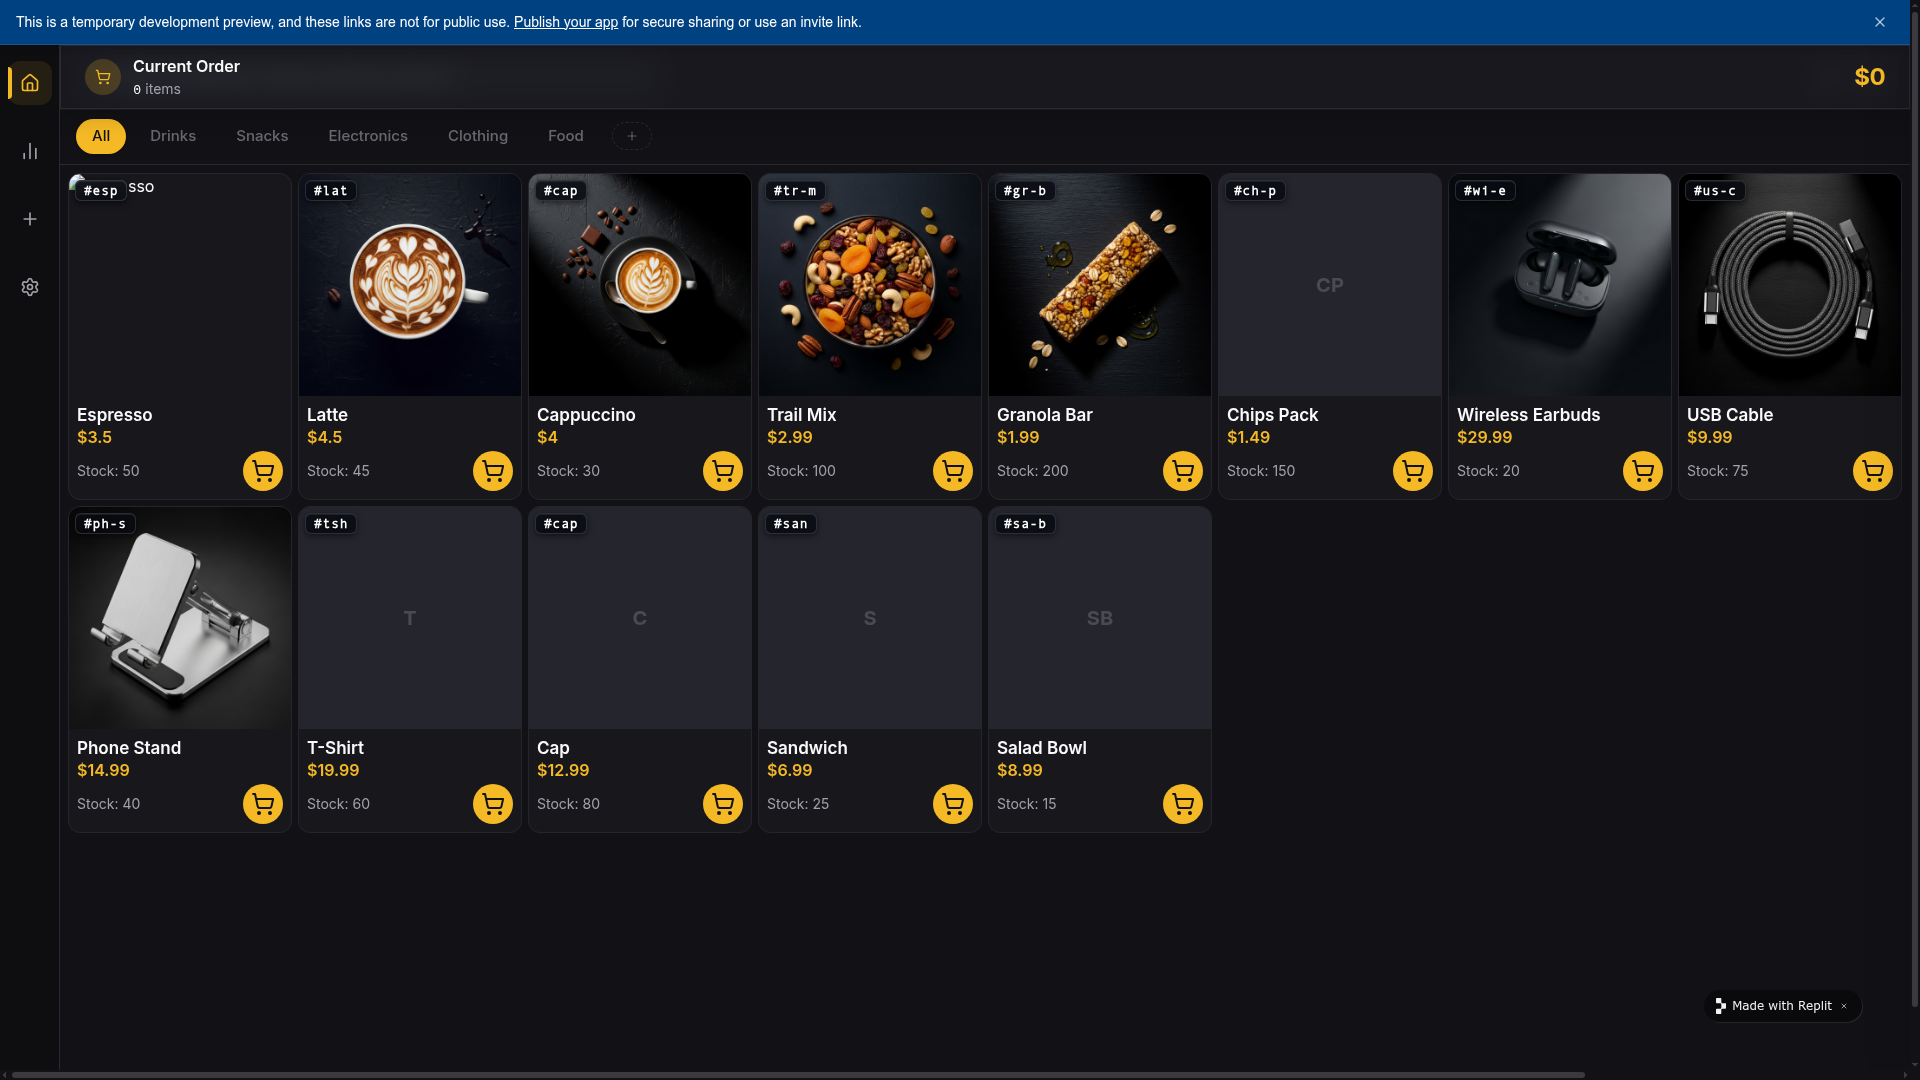
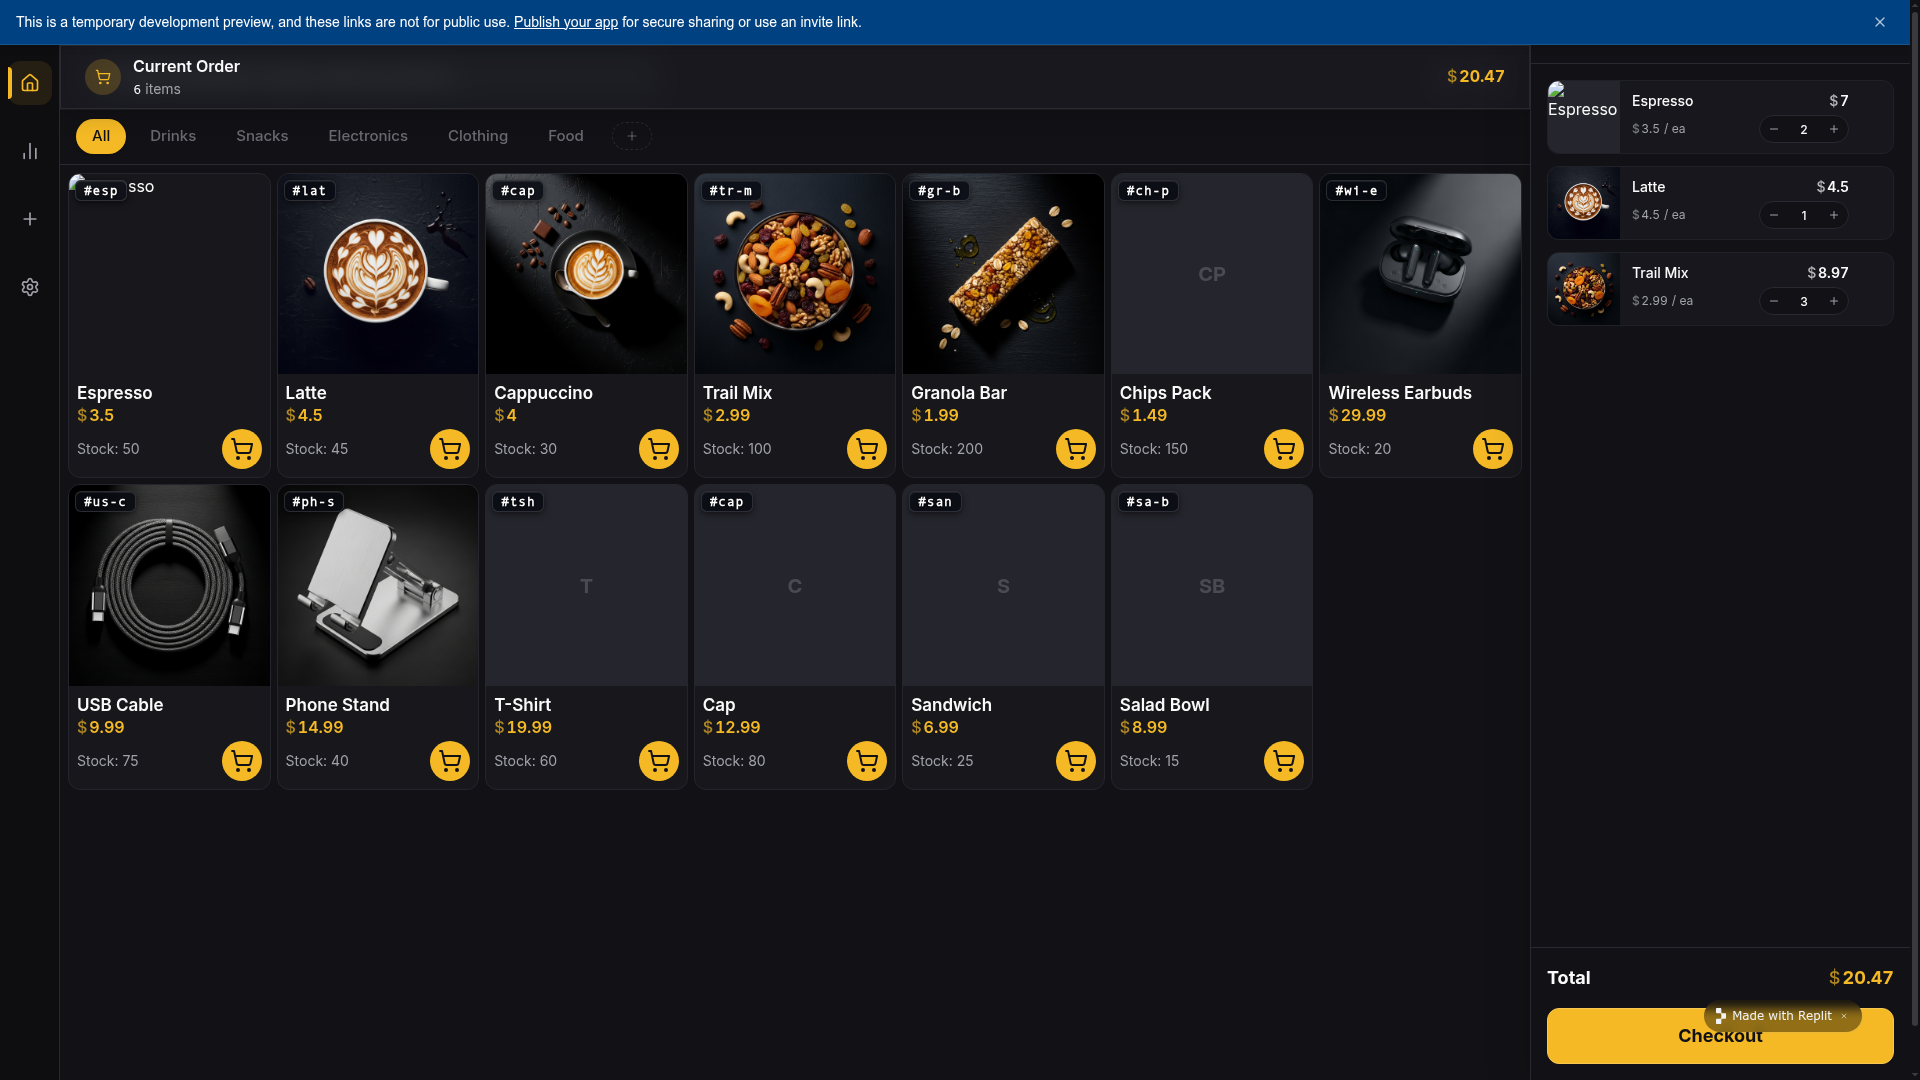
Update demo option to demo mode and refine its behavior
Renames "Demo Data" to "Demo Mode", and implements sandboxed behavior where actions are performed but not saved, with a reset on exit, stable analytics, and pre-filled initial state.

Replit-Commit-Author: Agent
Replit-Commit-Session-Id: fb33fa46-3691-49df-94f1-1d14acff730e
Replit-Commit-Checkpoint-Type: full_checkpoint
Replit-Commit-Event-Id: 6d282775-f128-4e77-b8e4-7cd21e2f7f4f
Replit-Commit-Screenshot-Url: https://storage.googleapis.com/screenshot-production-us-central1/b6bdb686-453c-457e-84ba-df9c58a15c67/fb33fa46-3691-49df-94f1-1d14acff730e/TIHnvqS
Replit-Helium-Checkpoint-Created: true

diff --git a/artifacts/pos-system/src/lib/store.tsx b/artifacts/pos-system/src/lib/store.tsx
@@ -22,9 +22,9 @@ export type Product = {
 export const INITIAL_CATEGORIES: Category[] = ["All", "Drinks", "Snacks", "Electronics", "Clothing", "Food"];
 
 // Demo products are an additive overlay shown only when Settings → Data &
-// Safety → Demo Data is ON. They share the global `products` list with any
+// Safety → Demo Mode is ON. They share the global `products` list with any
 // user-added products so existing call sites (POS, AddProduct) keep working,
-// but they are stored in their own bucket so toggling Demo Data off cleanly
+// but they are stored in their own bucket so toggling Demo Mode off cleanly
 // reveals just the user's real catalogue.
 export const DEMO_PRODUCTS: Product[] = [
   { id: "demo-1",  name: "Espresso",        price: 3.50,  category: "Drinks",      stock: 50,  image: "/images/espresso.png" },
@@ -45,6 +45,18 @@ export const DEMO_PRODUCTS: Product[] = [
 const DEMO_ID_PREFIX = "demo-";
 const isDemoId = (id: string) => id.startsWith(DEMO_ID_PREFIX);
 
+/**
+ * Pre-filled cart seed used the moment Demo Mode activates — gives the user
+ * something tangible to look at and test against without manually adding
+ * items first. The shape is `{ productId, quantity }` only; the consumer
+ * (POS) materializes full `CartItem`s by looking up `DEMO_PRODUCTS`.
+ */
+export const DEMO_CART_SEED: Array<{ productId: string; quantity: number }> = [
+  { productId: "demo-1", quantity: 2 },  // Espresso ×2
+  { productId: "demo-2", quantity: 1 },  // Latte ×1
+  { productId: "demo-4", quantity: 3 },  // Trail Mix ×3
+];
+
 type StoreValue = {
   products: Product[];
   setProducts: React.Dispatch<React.SetStateAction<Product[]>>;
@@ -60,7 +72,7 @@ const StoreContext = createContext<StoreValue | null>(null);
 export function StoreProvider({ children }: { children: React.ReactNode }) {
   const { settings } = useSettings();
 
-  // Two independent buckets so toggling Demo Data on/off never corrupts the
+  // Two independent buckets so toggling Demo Mode on/off never corrupts the
   // user's real catalogue. Demo state lives in memory only — a reload
   // restores the pristine demo list.
   const [userProducts, setUserProducts] = useState<Product[]>([]);
@@ -69,9 +81,60 @@ export function StoreProvider({ children }: { children: React.ReactNode }) {
   const [customCategories, setCustomCategories] = useState<Set<string>>(() => new Set());
 
   const products = useMemo<Product[]>(
-    () => (settings.demoData ? [...demoProducts, ...userProducts] : userProducts),
-    [settings.demoData, demoProducts, userProducts],
+    () => (settings.demoMode ? [...demoProducts, ...userProducts] : userProducts),
+    [settings.demoMode, demoProducts, userProducts],
   );
+
+  // ── Demo Mode snapshot / restore ─────────────────────────────────────────
+  // Demo Mode is a sandbox: anything the user does to products / categories
+  // while it is ON must be discarded the moment they switch it back OFF, so
+  // their real catalogue is exactly as it was before they entered demo.
+  // Cart state is owned by POS.tsx and handled there separately.
+  const userProductsRef = useRef(userProducts);
+  const categoriesRef = useRef(categories);
+  const customCategoriesRef = useRef(customCategories);
+  userProductsRef.current = userProducts;
+  categoriesRef.current = categories;
+  customCategoriesRef.current = customCategories;
+
+  const demoSnapshotRef = useRef<{
+    userProducts: Product[];
+    categories: Category[];
+    customCategories: Set<string>;
+  } | null>(null);
+
+  const prevDemoModeRef = useRef<boolean>(settings.demoMode);
+  useEffect(() => {
+    const wasDemo = prevDemoModeRef.current;
+    const isDemo = settings.demoMode;
+    if (wasDemo === isDemo) return;
+    prevDemoModeRef.current = isDemo;
+
+    if (isDemo) {
+      // Entering demo — capture a deep copy of the real state so any edits
+      // the user makes during the demo session can be cleanly rolled back.
+      demoSnapshotRef.current = {
+        userProducts: userProductsRef.current.map(p => ({ ...p })),
+        categories: [...categoriesRef.current],
+        customCategories: new Set(customCategoriesRef.current),
+      };
+      // Reset the demo overlay so each demo session starts from a pristine
+      // catalogue (stock counts, etc. back to the original DEMO_PRODUCTS).
+      setDemoProducts(DEMO_PRODUCTS.map(p => ({ ...p })));
+    } else {
+      // Exiting demo — discard everything that happened in the sandbox and
+      // restore the real catalogue exactly as it was when demo started.
+      const snap = demoSnapshotRef.current;
+      if (snap) {
+        setUserProducts(snap.userProducts);
+        setCategories(snap.categories);
+        setCustomCategories(snap.customCategories);
+      }
+      // Reset demo overlay too so the next demo session is fresh again.
+      setDemoProducts(DEMO_PRODUCTS.map(p => ({ ...p })));
+      demoSnapshotRef.current = null;
+    }
+  }, [settings.demoMode]);
 
   // Mirror the current visible list in a ref so functional setProducts updates
   // (which expect the latest state) always see what the consumer was
@@ -84,7 +147,7 @@ export function StoreProvider({ children }: { children: React.ReactNode }) {
     const next = typeof action === "function"
       ? (action as (prev: Product[]) => Product[])(cur)
       : action;
-    if (settings.demoData) {
+    if (settings.demoMode) {
       // Split the new list back into demo / user buckets by ID prefix so each
       // side keeps any in-place edits (stock decrements, edits, deletions).
       setDemoProducts(next.filter((p) => isDemoId(p.id)));

diff --git a/artifacts/pos-system/src/pages/POS.tsx b/artifacts/pos-system/src/pages/POS.tsx
@@ -21,7 +21,7 @@ import {
   DropdownMenu, DropdownMenuTrigger, DropdownMenuContent, DropdownMenuItem
 } from "@/components/ui/dropdown-menu";
 
-import { useStore, type Product, type Category, OUT_OF_STOCK_CATEGORY } from "@/lib/store";
+import { useStore, DEMO_PRODUCTS, DEMO_CART_SEED, type Product, type Category, OUT_OF_STOCK_CATEGORY } from "@/lib/store";
 import { useSettings, formatCurrency, Money } from "@/lib/settings";
 import { useShortcut } from "@/lib/shortcuts";
 import { useNotifications } from "@/lib/notifications-store";
@@ -53,7 +53,20 @@ export default function POS() {
   // intact so the operator stays in control of when it's cleared.
   const CART_ITEMS_KEY = "pos.cart.items.v1";
   const CART_OPEN_KEY = "pos.cart.open.v1";
-  const [cartItems, setCartItems] = useState<CartItem[]>(() => {
+
+  /** Materialize the demo cart seed by joining product IDs to demo products. */
+  const buildDemoCart = useCallback((): CartItem[] => {
+    const byId = new Map(DEMO_PRODUCTS.map(p => [p.id, p]));
+    const items: CartItem[] = [];
+    for (const seed of DEMO_CART_SEED) {
+      const p = byId.get(seed.productId);
+      if (p) items.push({ product: { ...p }, quantity: seed.quantity });
+    }
+    return items;
+  }, []);
+
+  /** Read the persisted (real) cart from localStorage — used at init and on demo exit. */
+  const loadRealCart = useCallback((): CartItem[] => {
     try {
       const raw = localStorage.getItem(CART_ITEMS_KEY);
       if (!raw) return [];
@@ -62,20 +75,51 @@ export default function POS() {
     } catch {
       return [];
     }
-  });
-  const [isCartOpen, setIsCartOpen] = useState<boolean>(() => {
-    try {
-      return localStorage.getItem(CART_OPEN_KEY) === "1";
-    } catch {
-      return false;
-    }
-  });
+  }, []);
+  const loadRealCartOpen = useCallback((): boolean => {
+    try { return localStorage.getItem(CART_OPEN_KEY) === "1"; } catch { return false; }
+  }, []);
+
+  // When Demo Mode is ON at mount, hydrate the cart from the demo seed instead
+  // of localStorage. The persisted real cart is left untouched in storage so
+  // it can be restored verbatim when the user exits demo.
+  const [cartItems, setCartItems] = useState<CartItem[]>(() =>
+    settings.demoMode ? buildDemoCart() : loadRealCart()
+  );
+  const [isCartOpen, setIsCartOpen] = useState<boolean>(() =>
+    settings.demoMode ? true : loadRealCartOpen()
+  );
+
+  // Persistence — short-circuited while Demo Mode is active so demo-session
+  // changes never clobber the real cart sitting in localStorage.
   useEffect(() => {
+    if (settings.demoMode) return;
     try { localStorage.setItem(CART_ITEMS_KEY, JSON.stringify(cartItems)); } catch { /* quota / disabled */ }
-  }, [cartItems]);
+  }, [cartItems, settings.demoMode]);
   useEffect(() => {
+    if (settings.demoMode) return;
     try { localStorage.setItem(CART_OPEN_KEY, isCartOpen ? "1" : "0"); } catch { /* quota / disabled */ }
-  }, [isCartOpen]);
+  }, [isCartOpen, settings.demoMode]);
+
+  // Demo Mode transitions — re-seed on enter, restore real cart on exit.
+  // Skip the very first run (handled by the useState initializers above).
+  const prevDemoModeRef = useRef<boolean>(settings.demoMode);
+  useEffect(() => {
+    const was = prevDemoModeRef.current;
+    const now = settings.demoMode;
+    if (was === now) return;
+    prevDemoModeRef.current = now;
+    if (now) {
+      // Entering demo — replace the live cart with the pre-filled demo seed.
+      setCartItems(buildDemoCart());
+      setIsCartOpen(true);
+    } else {
+      // Exiting demo — discard demo-session edits and restore the real cart
+      // exactly as it was persisted before the demo session started.
+      setCartItems(loadRealCart());
+      setIsCartOpen(loadRealCartOpen());
+    }
+  }, [settings.demoMode, buildDemoCart, loadRealCart, loadRealCartOpen]);
   const [isAddCategoryModalOpen, setIsAddCategoryModalOpen] = useState(false);
   const [cartFlash, setCartFlash] = useState(false);
 
@@ -411,13 +455,19 @@ export default function POS() {
     // here — the cart behaves as persistent working state. Items remain
     // until the user explicitly removes them (per-item or via the cart's
     // own controls), and the open/closed state is a user decision.
-    recordSale(cartItems.map((ci) => ({
-      productId: ci.product.id,
-      name: ci.product.name,
-      qty: ci.quantity,
-      price: ci.product.price,
-      profit: ci.product.profit ?? 0,
-    })));
+    //
+    // Demo Mode: the UI flow runs end-to-end (success toast, etc.) but the
+    // sale is NOT recorded — analytics / history keep showing the stable
+    // demo dataset and no real event gets written to localStorage.
+    if (!settings.demoMode) {
+      recordSale(cartItems.map((ci) => ({
+        productId: ci.product.id,
+        name: ci.product.name,
+        qty: ci.quantity,
+        price: ci.product.price,
+        profit: ci.product.profit ?? 0,
+      })));
+    }
     toast.success("Checkout successful!", { icon: <Check className="text-green-500" /> });
   };
 

diff --git a/artifacts/pos-system/src/lib/settings.tsx b/artifacts/pos-system/src/lib/settings.tsx
@@ -155,7 +155,17 @@ export type SettingsState = {
   defaultProfit: string;
   defaultStock: string;
   defaultCategory: string;
-  demoData: boolean;
+  /**
+   * Demo Mode — when true the app runs as a sandboxed playground:
+   *   • Cart bar starts pre-filled with sample items.
+   *   • Cart History + Analytics show the stable demo dataset.
+   *   • Any user action (add/remove cart items, edit products, checkout)
+   *     works through the UI but is NOT persisted.
+   *   • Toggling demo OFF discards every change made during the demo
+   *     session and restores the real (pre-demo) state.
+   * The legacy field name was `demoData`; `load()` migrates that on read.
+   */
+  demoMode: boolean;
   retention: RetentionMode;
   /** Days kept when `retention === "custom"`. Ignored otherwise. */
   retentionDays: number;
@@ -181,7 +191,7 @@ const DEFAULTS: SettingsState = {
   defaultProfit: "",
   defaultStock: "",
   defaultCategory: "",
-  demoData: true,
+  demoMode: true,
   retention: "all",
   retentionDays: 60,
   confirmBeforeDelete: true,
@@ -205,15 +215,23 @@ function load(): SettingsState {
   try {
     const raw = localStorage.getItem(STORAGE_KEY);
     if (!raw) return DEFAULTS;
-    const parsed = JSON.parse(raw);
+    const parsed = JSON.parse(raw) as Partial<SettingsState> & { demoData?: boolean };
     // Migrate legacy retention values ("7d", "30d", "custom") to "all".
     const validRetention: RetentionMode[] = ["1y", "2y", "5y", "all", "custom"];
-    const retention: RetentionMode = validRetention.includes(parsed?.retention)
-      ? parsed.retention
+    const retention: RetentionMode = validRetention.includes(parsed?.retention as RetentionMode)
+      ? (parsed.retention as RetentionMode)
       : "all";
+    // Migrate legacy `demoData` field → `demoMode` (renamed for clarity since
+    // the toggle now controls a sandboxed demo *mode*, not just demo data).
+    const demoMode: boolean = typeof parsed.demoMode === "boolean"
+      ? parsed.demoMode
+      : typeof parsed.demoData === "boolean"
+        ? parsed.demoData
+        : DEFAULTS.demoMode;
     return {
       ...DEFAULTS,
       ...parsed,
+      demoMode,
       retention,
       rates:     { ...DEFAULTS.rates,     ...(parsed.rates     ?? {}) },
       shortcuts: { ...DEFAULTS.shortcuts, ...(parsed.shortcuts ?? {}) },

diff --git a/artifacts/pos-system/src/lib/analytics-store.ts b/artifacts/pos-system/src/lib/analytics-store.ts
@@ -20,7 +20,7 @@ export type SaleEvent = {
 
 // Real (user-recorded) events live under their own key. Demo events are
 // generated in-memory and never written to localStorage so the two streams
-// stay strictly separate — toggling Demo Data off must reveal pristine real
+// stay strictly separate — toggling Demo Mode off must reveal pristine real
 // data and never leak demo entries.
 const REAL_KEY = "pos.analytics.events.real.v1";
 
@@ -98,8 +98,8 @@ export function clearRealEvents() {
 
 /**
  * Returns the events that should drive analytics for the current settings:
- *   • Demo Data ON  → in-memory 2025-anchored demo dataset (real events hidden).
- *   • Demo Data OFF → only events recorded by `recordSale` (the real stream).
+ *   • Demo Mode ON  → in-memory 2025-anchored demo dataset (real events hidden).
+ *   • Demo Mode OFF → only events recorded by `recordSale` (the real stream).
  * Toggling the setting flips the source instantly with no mixed state.
  */
 export function useSaleEvents(): SaleEvent[] {
@@ -116,7 +116,7 @@ export function useSaleEvents(): SaleEvent[] {
     };
   }, []);
 
-  return settings.demoData ? getDemoEvents2025() : realEvents;
+  return settings.demoMode ? getDemoEvents2025() : realEvents;
 }
 
 // ── Demo seed (anchored to calendar year 2025) ────────────────────────────
@@ -133,7 +133,7 @@ const DEMO_PRODUCTS: { id: string; name: string; price: number; profit: number }
 ];
 
 // Tiny seedable PRNG so the demo dataset is deterministic across reloads —
-// users see the same charts every time Demo Data is enabled, which makes the
+// users see the same charts every time Demo Mode is enabled, which makes the
 // Settings preview behaviour predictable.
 function mulberry32(seed: number) {
   let s = seed >>> 0;

diff --git a/artifacts/pos-system/src/pages/Analytics.tsx b/artifacts/pos-system/src/pages/Analytics.tsx
@@ -82,7 +82,7 @@ function buildChartData(
   events: SaleEvent[],
   metric: Metric,
   custom: { from: number; to: number } | null,
-  // Allow callers (e.g. Demo Data mode) to override the reference "now" so
+  // Allow callers (e.g. Demo Mode) to override the reference "now" so
   // the weekly/monthly/yearly windows resolve against a fixed date instead
   // of the wall clock.
   nowOverride?: Date,
@@ -1033,13 +1033,13 @@ export default function Analytics() {
 
   const events = useSaleEvents();
 
-  // When Demo Data is on, anchor "now" to a Sunday in late December 2025.
+  // When Demo Mode is on, anchor "now" to a Sunday in late December 2025.
   // That makes the weekly/monthly/yearly views all land inside 2025 so the
   // charts always render against the demo dataset (otherwise weekly would
   // show today's empty real-data window).
   const nowRef = useMemo(
-    () => (settings.demoData ? new Date(2025, 11, 28, 12, 0, 0, 0) : new Date()),
-    [settings.demoData],
+    () => (settings.demoMode ? new Date(2025, 11, 28, 12, 0, 0, 0) : new Date()),
+    [settings.demoMode],
   );
 
   useEffect(() => {

diff --git a/artifacts/pos-system/src/pages/Settings.tsx b/artifacts/pos-system/src/pages/Settings.tsx
@@ -1156,9 +1156,9 @@ function DataSafetySection() {
           <div className="divide-y divide-white/[0.05]">
             <OptionRow
               icon={<FlaskConical size={18} strokeWidth={1.75} />}
-              label="Demo data"
+              label="Demo Mode"
               control={
-                <MiniSwitch checked={settings.demoData} onChange={v => update("demoData", v)} label="Demo data" />
+                <MiniSwitch checked={settings.demoMode} onChange={v => update("demoMode", v)} label="Demo Mode" />
               }
             />
 
